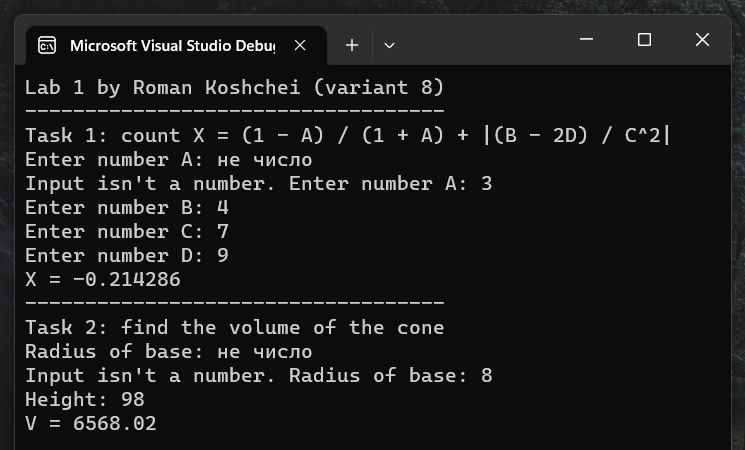
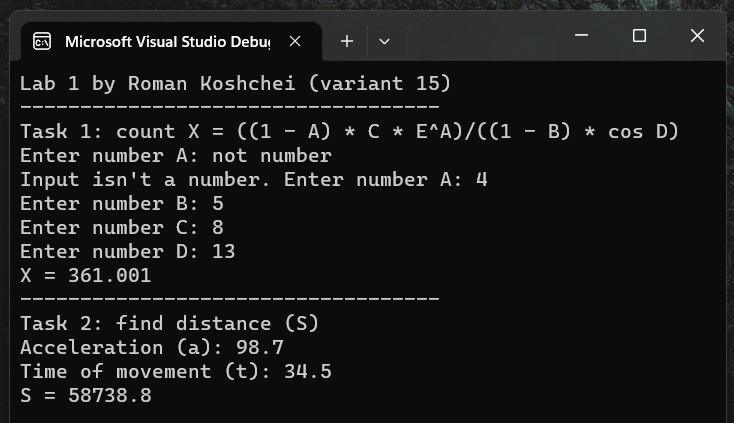
remake lab 1

diff --git a/site/.vitepress/config.js b/site/.vitepress/config.js
@@ -15,7 +15,7 @@ export default defineConfig({
         text: "Лабораторні роботи",
         items: [
           { text: "Лабораторна робота №1", link: "/labs/1" },
-          { text: "Лабораторна робота №2", link: "/labs/2" },
+          // { text: "Лабораторна робота №2", link: "/labs/2" },
         ],
       },
     ],

diff --git a/src/labs/lab1.h b/src/labs/lab1.h
@@ -14,35 +14,35 @@ I prefer keep it simple while I can.
 */
 
 namespace lab1 {
-    const double PI = 3.141592653589793238463;
+    const double E = 2.71828182845904523536;
 
     void task1() {
         std::cout
-            << "Task 1: count X = (1 - A) / (1 + A) + |(B - 2D) / C^2|"
+            << "Task 1: count X = ((1 - A) * C * E^A)/((1 - B) * cos D)"
             << std::endl;
 
-        float a = numFromConsole("Enter number A: ");
-        float b = numFromConsole("Enter number B: ");
-        float c = numFromConsole("Enter number C: ");
-        float d = numFromConsole("Enter number D: ");
+        const double a = numFromConsole("Enter number A: ");
+        const double b = numFromConsole("Enter number B: ");
+        const double c = numFromConsole("Enter number C: ");
+        const double d = numFromConsole("Enter number D: ");
 
-        double x = (1.0 - a) / (1.0 + a) + abs((b - 2.0 * d) / pow(c, 2));
+        const double x = ((1 - a) * c * pow(E, a)) / ((1 - b) * cos(d));
         std::cout << "X = " << x << std::endl;
     }
 
     void task2() {
-        std::cout << "Task 2: find the volume of the cone" << std::endl;
+        std::cout << "Task 2: find distance (S)" << std::endl;
 
-        float r = numFromConsole("Radius of base: ");
-        float h = numFromConsole("Height: ");
+        const double a = numFromConsole("Acceleration (a): ");
+        const double t = numFromConsole("Time of movement (t): ");
 
-        double v = (1.0 / 3.0) * PI * r * r * h;
-        std::cout << "V = " << v << std::endl;
+        const double s = 0.5 * a * pow(t, 2);
+        std::cout << "S = " << s << std::endl;
     }
 
     void run()
     {
-        std::cout << "Lab 1 by Roman Koshchei (variant 8)" << std::endl;
+        std::cout << "Lab 1 by Roman Koshchei (variant 15)" << std::endl;
         std::cout << "-----------------------------------" << std::endl;
         task1();
         std::cout << "-----------------------------------" << std::endl;

diff --git a/src/labs/main.cpp b/src/labs/main.cpp
@@ -5,8 +5,8 @@
 void main()
 {
     try {
-        lab2::run();
-        // lab1::run();
+        lab1::run();
+        //lab2::run();
     }
     catch (...) {
         std::cout << "Unexpected error appeared";

diff --git a/site/labs/1.md b/site/labs/1.md
@@ -20,19 +20,18 @@ outline: deep
 
 ### Завдання 1
 
-Потрібно обчислити значення виразу: `X = (1 - A) / (1 + A) + |(B - 2D) / C^2|`
+Потрібно обчислити значення виразу: `X = ((1 - A) * C * e^A)/((1 - B) * cos D)`
 та вивести його на екран. Змінні A, B, C, D мають бути введені користувачем через консоль.
 
 ### Завдання 2
 
-Мета другого завдання - написати програму для визначення об'єму конуса,
-якщо значення радіусу його основи та висоти вводяться користувачем через консоль.
+Мета другого завдання - написати програму для обчислення відстані, яку тіло пройде, починаючи рухатися без початкової швидкості. Прискорення та час руху вводить користувач.
 
 ## Аналіз задачі
 
 Обидва завдання вимагають отримання чисел з консолі.
 Для цього була створена функція `parseNum`, яка перетворює рядок у число
-з обробкою помилок і повертає `optional<float>`, що означає,
+з обробкою помилок і повертає `optional<double>`, що означає,
 що якщо перетворення не вдалося, то повертається `nullopt` - відсутність значення.
 Функція `numFromConsole` запитує користувача ввести число,
 поки введене значення не буде успішно перетворено.
@@ -40,12 +39,13 @@ outline: deep
 ### Завдання 1
 
 Для виконання першого завдання отримуємо з консолі значення змінних A, B, C, D.
-Під час обчислень використовуються математичні функції `abs` та `pow`.
+Під час обчислень використовуються математичні функції `cos` та `pow`.
+Також для обчислень використовується число Ейлера як константа `E`,
+яку ми оголосили в початку файла.
 
 ### Завдання 2
 
-ля обчислення об'єму конуса отримуємо з консолі значення радіусу основи R і висоти H.
-Також для обчислень використовується константа `PI`, яку ми оголосили в початку файла.
+Для обчислення шляху отримуємо з консолі значення прискорення `a` і час `t`.
 
 ### Джерела
 
@@ -67,8 +67,6 @@ outline: deep
 
 ## Код програми
 
-<!-- Можна знайти у файлі [labs/lab_1.h](../labs/lab_1.h) -->
-
 Для завантаження можна використовувати репозиторій або
 [файл](https://github.com/koshcher/op/blob/main/src/labs/lab1.h)
 
@@ -79,35 +77,35 @@ outline: deep
 #include "shared.h"
 
 namespace lab1 {
-    const double PI = 3.141592653589793238463;
+    const double E = 2.71828182845904523536;
 
     void task1() {
         std::cout
-            << "Task 1: count X = (1 - A) / (1 + A) + |(B - 2D) / C^2|"
+            << "Task 1: count X = ((1 - A) * C * E^A)/((1 - B) * cos D)"
             << std::endl;
 
-        float a = numFromConsole("Enter number A: ");
-        float b = numFromConsole("Enter number B: ");
-        float c = numFromConsole("Enter number C: ");
-        float d = numFromConsole("Enter number D: ");
+        const double a = numFromConsole("Enter number A: ");
+        const double b = numFromConsole("Enter number B: ");
+        const double c = numFromConsole("Enter number C: ");
+        const double d = numFromConsole("Enter number D: ");
 
-        double x = (1.0 - a) / (1.0 + a) + abs((b - 2.0 * d) / pow(c, 2));
+        const double x = ((1 - a) * c * pow(E, a)) / ((1 - b) * cos(d));
         std::cout << "X = " << x << std::endl;
     }
 
     void task2() {
-        std::cout << "Task 2: find the volume of the cone" << std::endl;
+        std::cout << "Task 2: find distance (S)" << std::endl;
 
-        float r = numFromConsole("Radius of base: ");
-        float h = numFromConsole("Height: ");
+        const double a = numFromConsole("Acceleration (a): ");
+        const double t = numFromConsole("Time of movement (t): ");
 
-        double v = (1.0 / 3.0) * PI * r * r * h;
-        std::cout << "V = " << v << std::endl;
+        const double s = 0.5 * a * pow(t, 2);
+        std::cout << "S = " << s << std::endl;
     }
 
     void run()
     {
-        std::cout << "Lab 1 by Roman Koshchei (variant 8)" << std::endl;
+        std::cout << "Lab 1 by Roman Koshchei (variant 15)" << std::endl;
         std::cout << "-----------------------------------" << std::endl;
         task1();
         std::cout << "-----------------------------------" << std::endl;
@@ -164,30 +162,33 @@ double numFromConsole(std::string message) {
 
 ### Завдання 1
 
-Для тестування першого завдання ми використовуємо такі значення: A = 3, B = 4, C = 7, D = 9.
+Для тестування першого завдання ми використовуємо такі значення: A = 4, B = 5, C = 8, D = 13.
+
+> Примітка: косинус рахується в радіантах
 
 ```
-X = (1 - A)/(1 + A) + |(B - 2D) / C^2|
-X = (1 - 3) / (1 + 3) + |(4 - 2*9) / 7^2|
-X = -2 / 4 + |-14  / 49|
-X = -0.5 + 0.2857142857142857
-X = -0.2142857142857143
-X ~ -0.214286
+E = 2.71828182845904523536;
+
+X = ((1 - A) * C * E^A) / ((1 - B) * cos D)
+X = ((1 - 4) * 8 * E^4) / ((1 - 5) * cos 13)
+X = (-24 * 54.5981500331442390) / (-4 * 0.90744678145019621)
+Z = -1,310.355600795461736 / -3.62978712580078484
+X = 361.000674524784389
+X ~ 361.001
 ```
 
-![Калькулятор](../assets/lab1/calc.png)
+![Калькулятор](../assets/lab1/calc-1.png)
 
 ### Завдання 2
 
-Для тестування другого завдання ми використовуємо такі значення: R = 8, H = 98.
+Для тестування другого завдання ми використовуємо такі значення: a = 98.7, t = 34.5.
 
 ```
-PI = 3.141592653589793238463
-
-V = (1/3) * PI * R^2 * H
-V = (1/3) * PI * 64 * 98
-V = 6,568.023041105061
-V ~ 6,568.02
+S = 0.5 * a * t^2
+S = 0.5 * 98.7 * 34.5^2
+S = 49.35 * 1,190.25
+S = 58738.8375
+S ~ 58738.8
 ```
 
 ![Калькулятор](../assets/lab1/calc-2.png)
